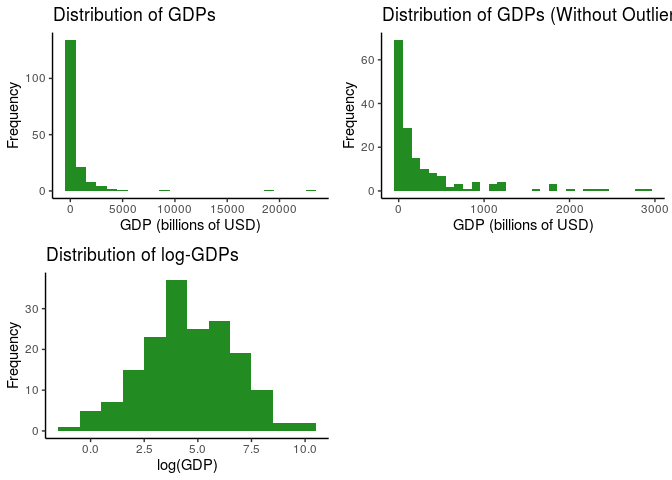
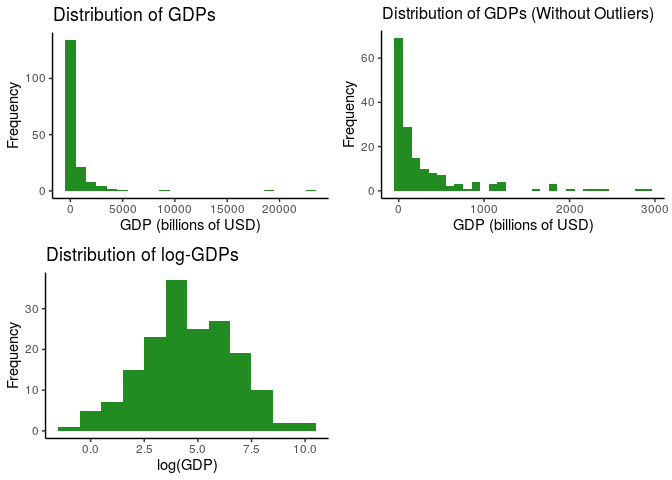
Fixed title font

Changed region(s): [[0.5625, 0.0, 1.0, 0.0625], [0.5, 0.1562, 0.5625, 0.3125], [0.5312, 0.0938, 0.5625, 0.1562]]

diff --git a/04-final-writeup/final-writeup.md b/04-final-writeup/final-writeup.md
@@ -63,7 +63,7 @@ printed below.
     ##  n obs: 173 
     ##  n variables: 1 
     ## 
-    ## ── Variable type:numeric ─────────────────────────────────────────────────────────────────────────────────────────────
+    ## ── Variable type:numeric ───────────────────────────────────────────────────────────────────────────────
     ##  variable missing complete   n mean   sd    p0  p25  p50  p75  p100
     ##    logGDP       0      173 173 4.61 2.08 -0.51 3.34 4.49 6.09 10.05
     ##      hist
@@ -95,7 +95,7 @@ printed.
     ##  n obs: 173 
     ##  n variables: 1 
     ## 
-    ## ── Variable type:numeric ─────────────────────────────────────────────────────────────────────────────────────────────
+    ## ── Variable type:numeric ───────────────────────────────────────────────────────────────────────────────
     ##  variable missing complete   n mean  sd   p0  p25  p50  p75 p100     hist
     ##    logpop       0      173 173 2.16 1.8 -2.3 1.06 2.25 3.45 7.24 ▁▃▃▇▆▃▁▁
 
@@ -115,7 +115,7 @@ These summary statistics are printed below.
     ##  n obs: 173 
     ##  n variables: 1 
     ## 
-    ## ── Variable type:numeric ─────────────────────────────────────────────────────────────────────────────────────────────
+    ## ── Variable type:numeric ───────────────────────────────────────────────────────────────────────────────
     ##   variable missing complete   n  mean    sd   p0 p25 p50 p75   p100
     ##  Inflation       0      173 173 10.87 82.56 -0.9 1.3 2.8 5.5 1087.5
     ##      hist
@@ -1489,7 +1489,7 @@ GDP, starting with
     ##  n obs: 173 
     ##  n variables: 1 
     ## 
-    ## ── Variable type:numeric ─────────────────────────────────────────────────────────────────────────────────────────────
+    ## ── Variable type:numeric ───────────────────────────────────────────────────────────────────────────────
     ##   variable missing complete   n  mean    sd  p0 p25  p50  p75 p100
     ##  TaxBurden       0      173 173 22.19 10.25 1.6  14 20.7 30.2   47
     ##      hist
@@ -1506,7 +1506,7 @@ deviation of the distribution is 10.17%.
     ##  n obs: 173 
     ##  n variables: 1 
     ## 
-    ## ── Variable type:numeric ─────────────────────────────────────────────────────────────────────────────────────────────
+    ## ── Variable type:numeric ───────────────────────────────────────────────────────────────────────────────
     ##     variable missing complete   n mean    sd   p0  p25  p50  p75 p100
     ##  GovSpending       0      173 173 32.2 10.67 10.6 23.6 31.6 39.8 64.2
     ##      hist
@@ -1523,7 +1523,7 @@ of GDP and the distribution has a standard deviation of 15.52%.
     ##  n obs: 173 
     ##  n variables: 1 
     ## 
-    ## ── Variable type:numeric ─────────────────────────────────────────────────────────────────────────────────────────────
+    ## ── Variable type:numeric ───────────────────────────────────────────────────────────────────────────────
     ##    variable missing complete   n  mean     sd  p0 p25 p50  p75   p100
     ##  Population       0      173 173 42.16 149.89 0.1 2.9 9.5 31.4 1390.1
     ##      hist
@@ -1538,7 +1538,7 @@ graph of population without these two points below.
     ##  n obs: 173 
     ##  n variables: 1 
     ## 
-    ## ── Variable type:numeric ─────────────────────────────────────────────────────────────────────────────────────────────
+    ## ── Variable type:numeric ───────────────────────────────────────────────────────────────────────────────
     ##    variable missing complete   n  mean     sd  p0 p25 p50  p75   p100
     ##  Population       0      173 173 42.16 149.89 0.1 2.9 9.5 31.4 1390.1
     ##      hist
@@ -1557,7 +1557,7 @@ apply a logarithmic transform to population below.
     ##  n obs: 173 
     ##  n variables: 1 
     ## 
-    ## ── Variable type:numeric ─────────────────────────────────────────────────────────────────────────────────────────────
+    ## ── Variable type:numeric ───────────────────────────────────────────────────────────────────────────────
     ##      variable missing complete   n mean   sd  p0 p25 p50 p75 p100     hist
     ##  Unemployment       0      173 173 7.27 5.67 0.1 3.7 5.5 9.3 27.3 ▆▇▅▂▁▁▁▁
 
@@ -1572,7 +1572,7 @@ IQR is 5.6.
     ##  n obs: 173 
     ##  n variables: 1 
     ## 
-    ## ── Variable type:numeric ─────────────────────────────────────────────────────────────────────────────────────────────
+    ## ── Variable type:numeric ───────────────────────────────────────────────────────────────────────────────
     ##    variable missing complete   n mean  sd p0 p25 p50 p75 p100     hist
     ##  TariffRate       0      173 173 5.61 4.4  0   2 4.2 8.7 18.6 ▇▅▃▃▃▁▁▁
 
@@ -1589,7 +1589,7 @@ examine it further in a pairs plot later in the analysis.
     ##  n obs: 173 
     ##  n variables: 1 
     ## 
-    ## ── Variable type:numeric ─────────────────────────────────────────────────────────────────────────────────────────────
+    ## ── Variable type:numeric ───────────────────────────────────────────────────────────────────────────────
     ##   variable missing complete   n  mean    sd   p0 p25 p50 p75   p100
     ##  Inflation       0      173 173 10.87 82.56 -0.9 1.3 2.8 5.5 1087.5
     ##      hist
@@ -1630,7 +1630,7 @@ balanced.
     ##  n obs: 173 
     ##  n variables: 1 
     ## 
-    ## ── Variable type:numeric ─────────────────────────────────────────────────────────────────────────────────────────────
+    ## ── Variable type:numeric ───────────────────────────────────────────────────────────────────────────────
     ##       variable missing complete   n  mean    sd p0 p25 p50 p75 p100
     ##  IncomeTaxRate       0      173 173 28.78 13.32  0  20  30  35   60
     ##      hist
@@ -1650,7 +1650,7 @@ the distribution is 13.4%.
     ##  n obs: 173 
     ##  n variables: 1 
     ## 
-    ## ── Variable type:numeric ─────────────────────────────────────────────────────────────────────────────────────────────
+    ## ── Variable type:numeric ───────────────────────────────────────────────────────────────────────────────
     ##          variable missing complete   n  mean   sd p0 p25 p50 p75 p100
     ##  CorporateTaxRate       0      173 173 23.95 8.89  0  20  25  30   50
     ##      hist
@@ -1667,7 +1667,7 @@ corporate tax rate is 23.89% and the standard deviation is 8.88%.
     ##  n obs: 173 
     ##  n variables: 1 
     ## 
-    ## ── Variable type:numeric ─────────────────────────────────────────────────────────────────────────────────────────────
+    ## ── Variable type:numeric ───────────────────────────────────────────────────────────────────────────────
     ##    variable missing complete   n  mean   sd p0  p25  p50  p75  p100
     ##  PublicDebt       0      173 173 56.46 33.8  0 35.2 49.4 69.9 236.4
     ##      hist
